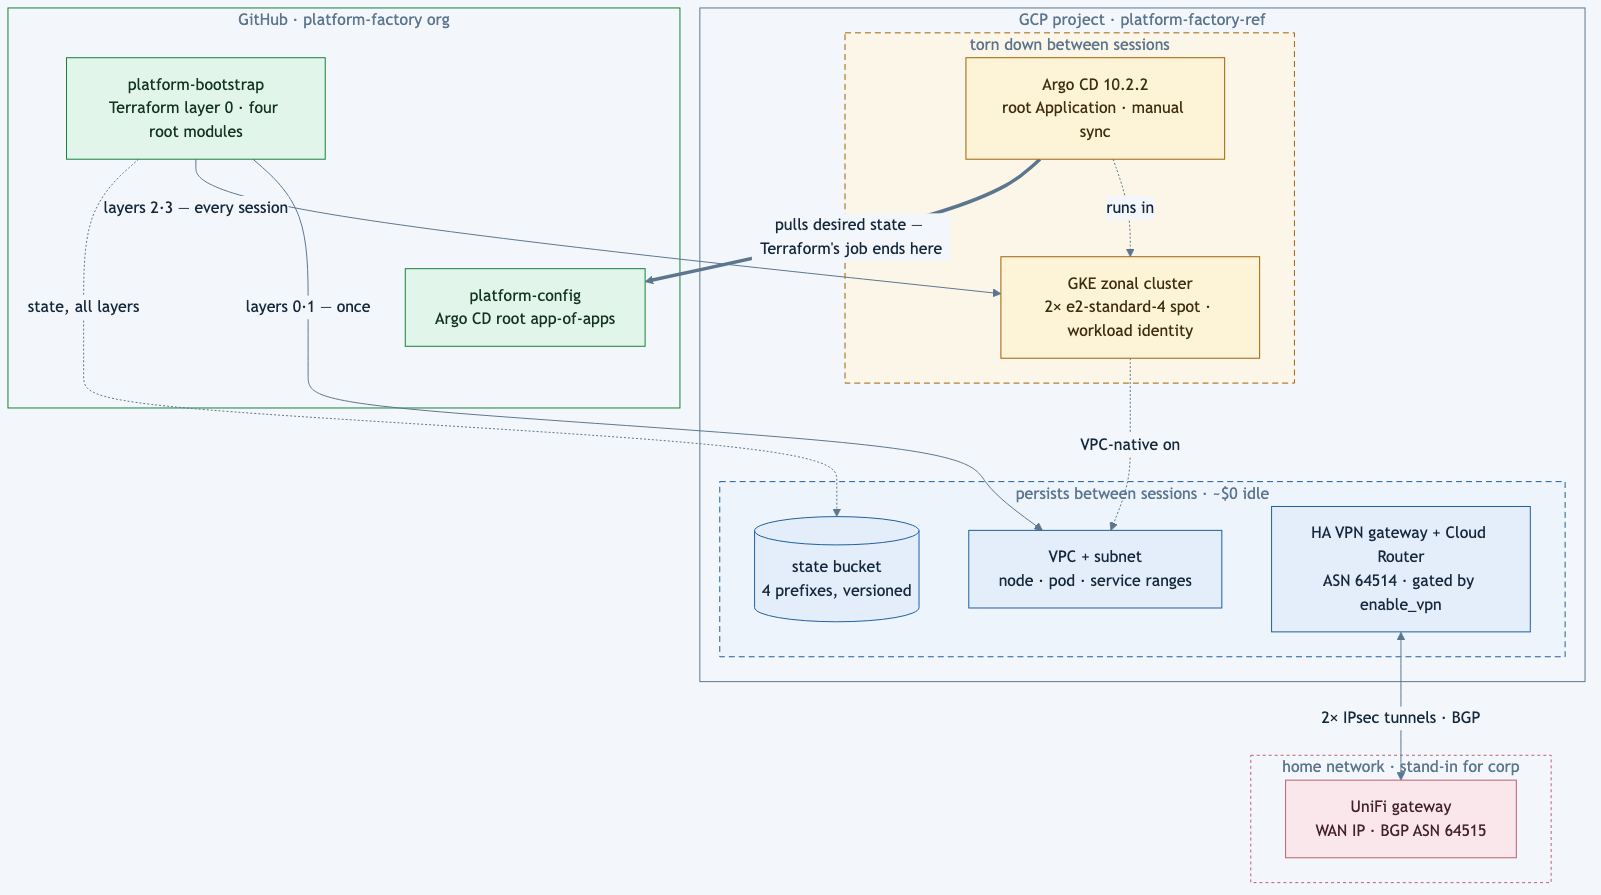
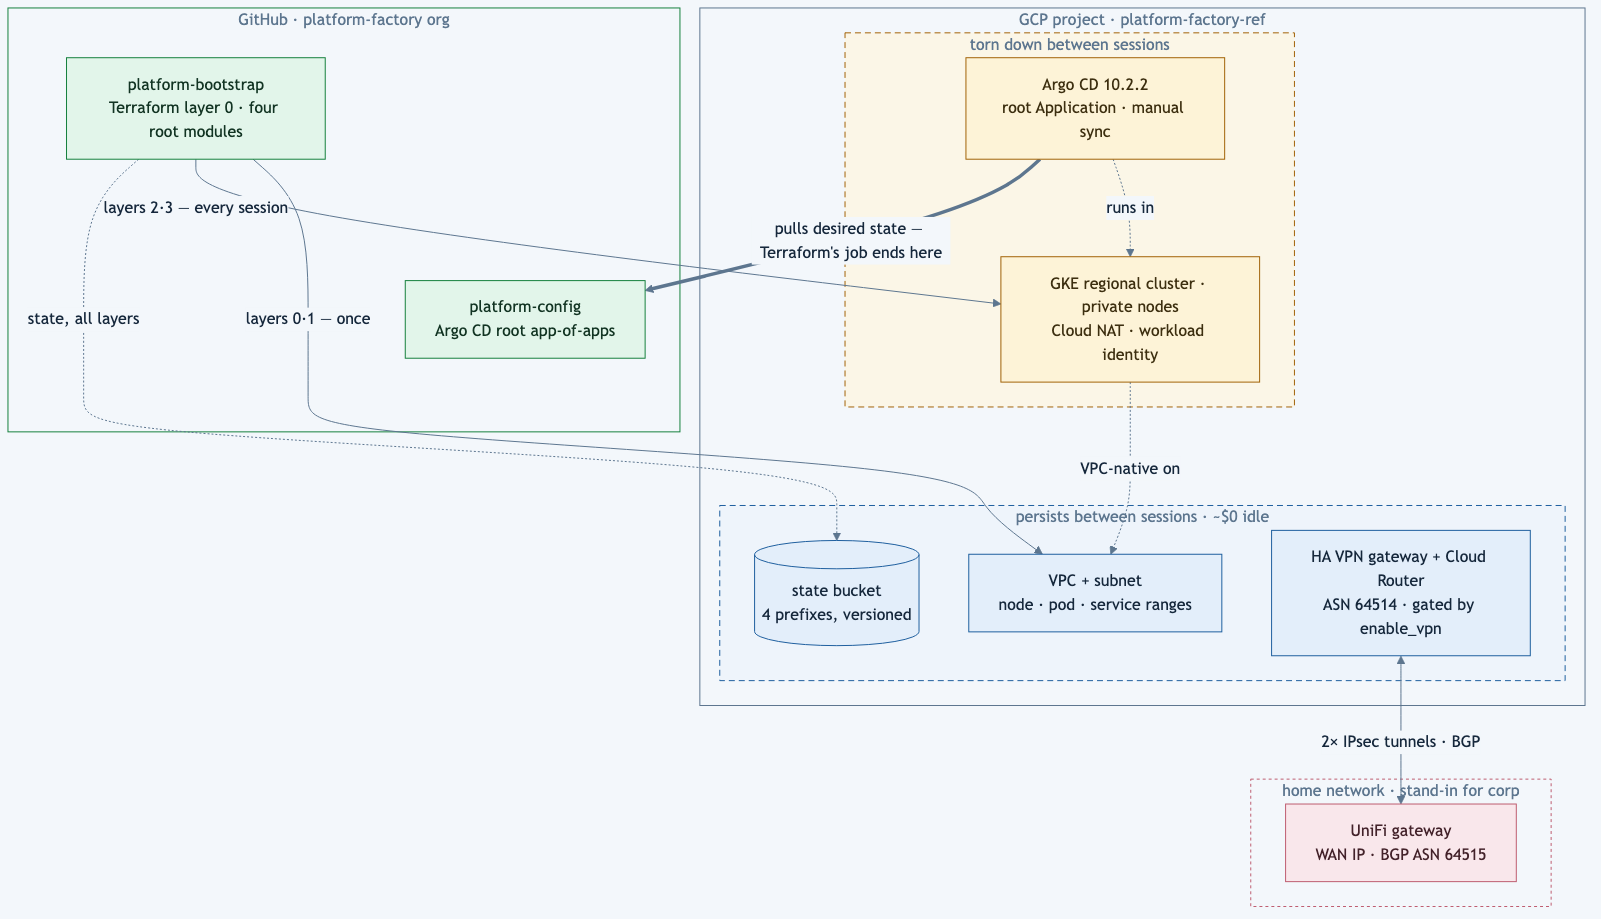
Diagrams: layer-0 reflects corp-real posture (ADR-0009)
Regional private-node cluster with Cloud NAT and authorized-networks
endpoint; project parented under the org; session cost updated.

Claude-Session: https://claude.ai/code/session_01QZv77YvDpRpDKFu4mc7L1c

diff --git a/docs/diagrams/gcp-platform-factory-architecture.html b/docs/diagrams/gcp-platform-factory-architecture.html
@@ -466,7 +466,7 @@ flowchart TD
       vpn["HA VPN gateway + Cloud Router<br/>ASN 64514 · gated by enable_vpn"]
     end
     subgraph ephem["torn down between sessions"]
-      gke["GKE zonal cluster<br/>2× e2-standard-4 spot · workload identity"]
+      gke["GKE regional cluster · private nodes<br/>Cloud NAT · workload identity"]
       argo["Argo CD 10.2.2<br/>root Application · manual sync"]
     end
   end
@@ -504,7 +504,7 @@ flowchart TD
       <p class="layer-card__role">The substrate everything else assumes exists. Starts on local
       state, then migrates itself into the bucket it creates.</p>
       <ul>
-        <li><code>google_project</code> platform-factory-ref, billing linked</li>
+        <li><code>google_project</code> under the thecloudgeek.io org, billing linked</li>
         <li>7 enabled APIs (compute, container, iam, …)</li>
         <li>GCS state bucket <code>&lt;project&gt;-tfstate</code>, versioned</li>
       </ul>
@@ -531,15 +531,15 @@ flowchart TD
         <span class="layer-card__name">2-cluster</span>
         <span class="layer-card__badge">torn down · compute</span>
       </div>
-      <p class="layer-card__role">The expensive part. Reads network facts from
-      <code>1-network</code>'s remote state by name — so it can die and be reborn without touching
-      the VPC.</p>
+      <p class="layer-card__role">The expensive part, configured corp-real (ADR-0009): regional
+      control plane, private nodes. Reads network facts from <code>1-network</code>'s remote state
+      by name — so it can die and be reborn without touching the VPC.</p>
       <ul>
-        <li>GKE zonal <code>us-central1-a</code> (free mgmt tier) · VPC-native</li>
-        <li>Workload identity · REGULAR channel · deletion protection off</li>
-        <li>Node pool: 2× <code>e2-standard-4</code> spot, autoscale 1–3</li>
+        <li>GKE regional <code>us-central1</code> · private nodes + Cloud NAT</li>
+        <li>API endpoint locked to authorized networks · workload identity</li>
+        <li>Node pool: <code>e2-standard-4</code> on-demand, shielded, 1–2 per zone</li>
       </ul>
-      <div class="layer-card__cost"><strong>Bills hourly while up</strong> · destroyed at session end</div>
+      <div class="layer-card__cost"><strong>~$0.50/hr while up</strong> (regional fee + nodes) · destroyed at session end</div>
     </div>
 
     <div class="layer-card layer-card--teardown animate" style="--i:8">
@@ -568,7 +568,7 @@ flowchart TD
       <div class="rhythm-step rhythm-step--build">
         <div class="when">session start</div>
         <div class="what">apply 2-cluster</div>
-        <div class="how">GKE up in ~10 min</div>
+        <div class="how">regional GKE up in ~10–15 min</div>
       </div>
       <div class="rhythm-arrow">→</div>
       <div class="rhythm-step rhythm-step--build">
@@ -620,7 +620,7 @@ flowchart TD
   </div>
 
   <footer class="animate" style="--i:14">
-    zoom out: <a href="platform-factory-overall-architecture.html">overall Platform Factory architecture</a> · platform-bootstrap PR #1 · design seed: <a href="https://github.com/thecloudgeek/platform-factory">thecloudgeek/platform-factory</a> · generated 2026-08-03
+    zoom out: <a href="platform-factory-overall-architecture.html">overall Platform Factory architecture</a> · platform-bootstrap PR #1 · design seed: <a href="https://github.com/thecloudgeek/platform-factory">thecloudgeek/platform-factory</a> · updated 2026-08-06 (corp-real posture, ADR-0009)
   </footer>
 
 </div>
